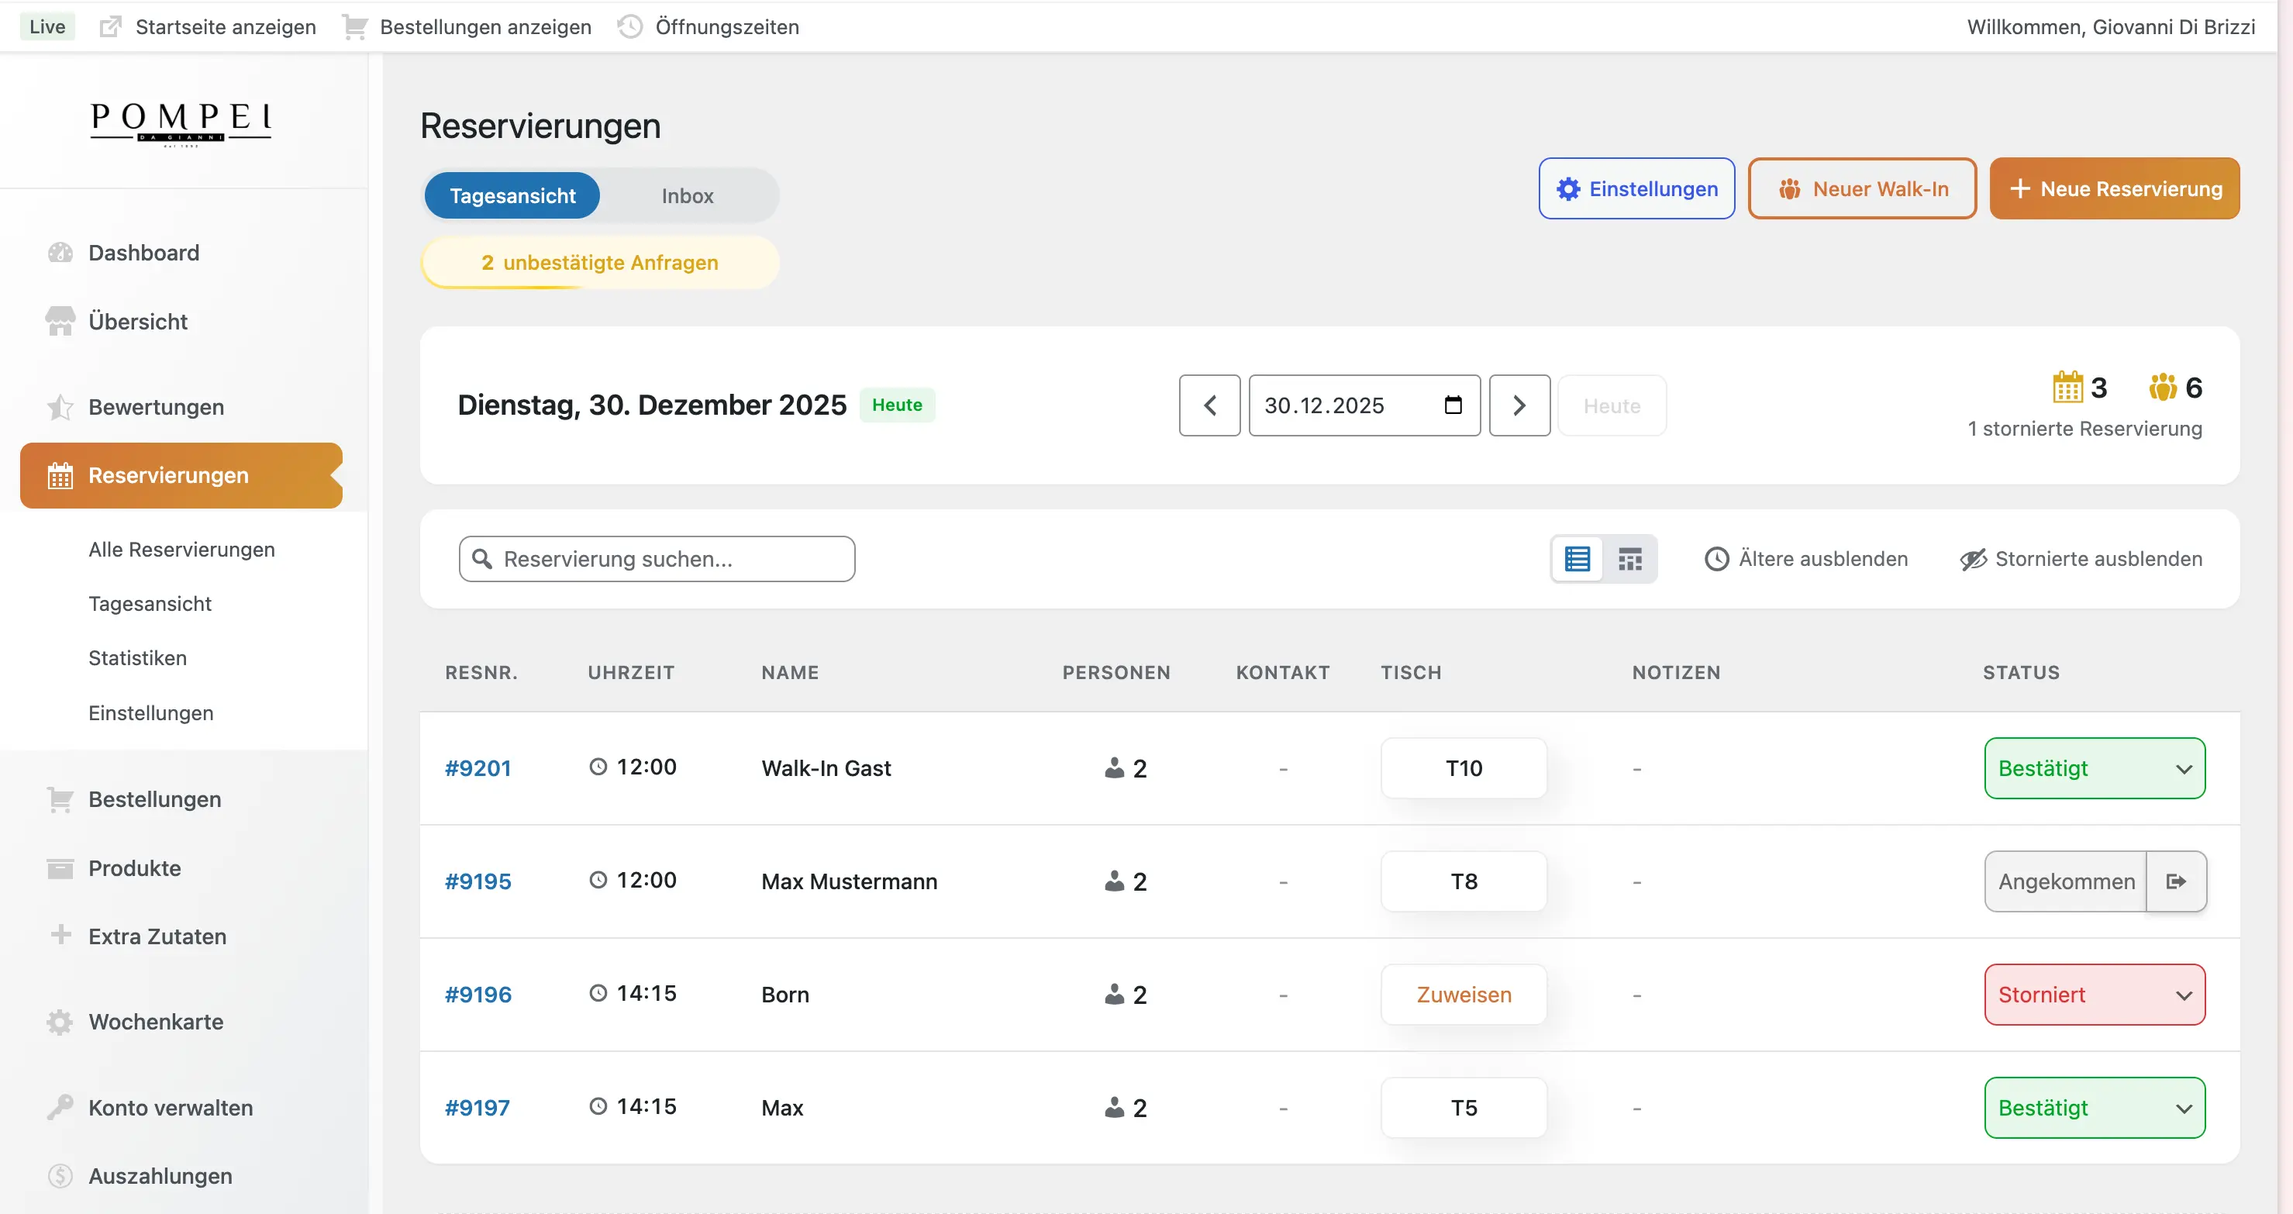
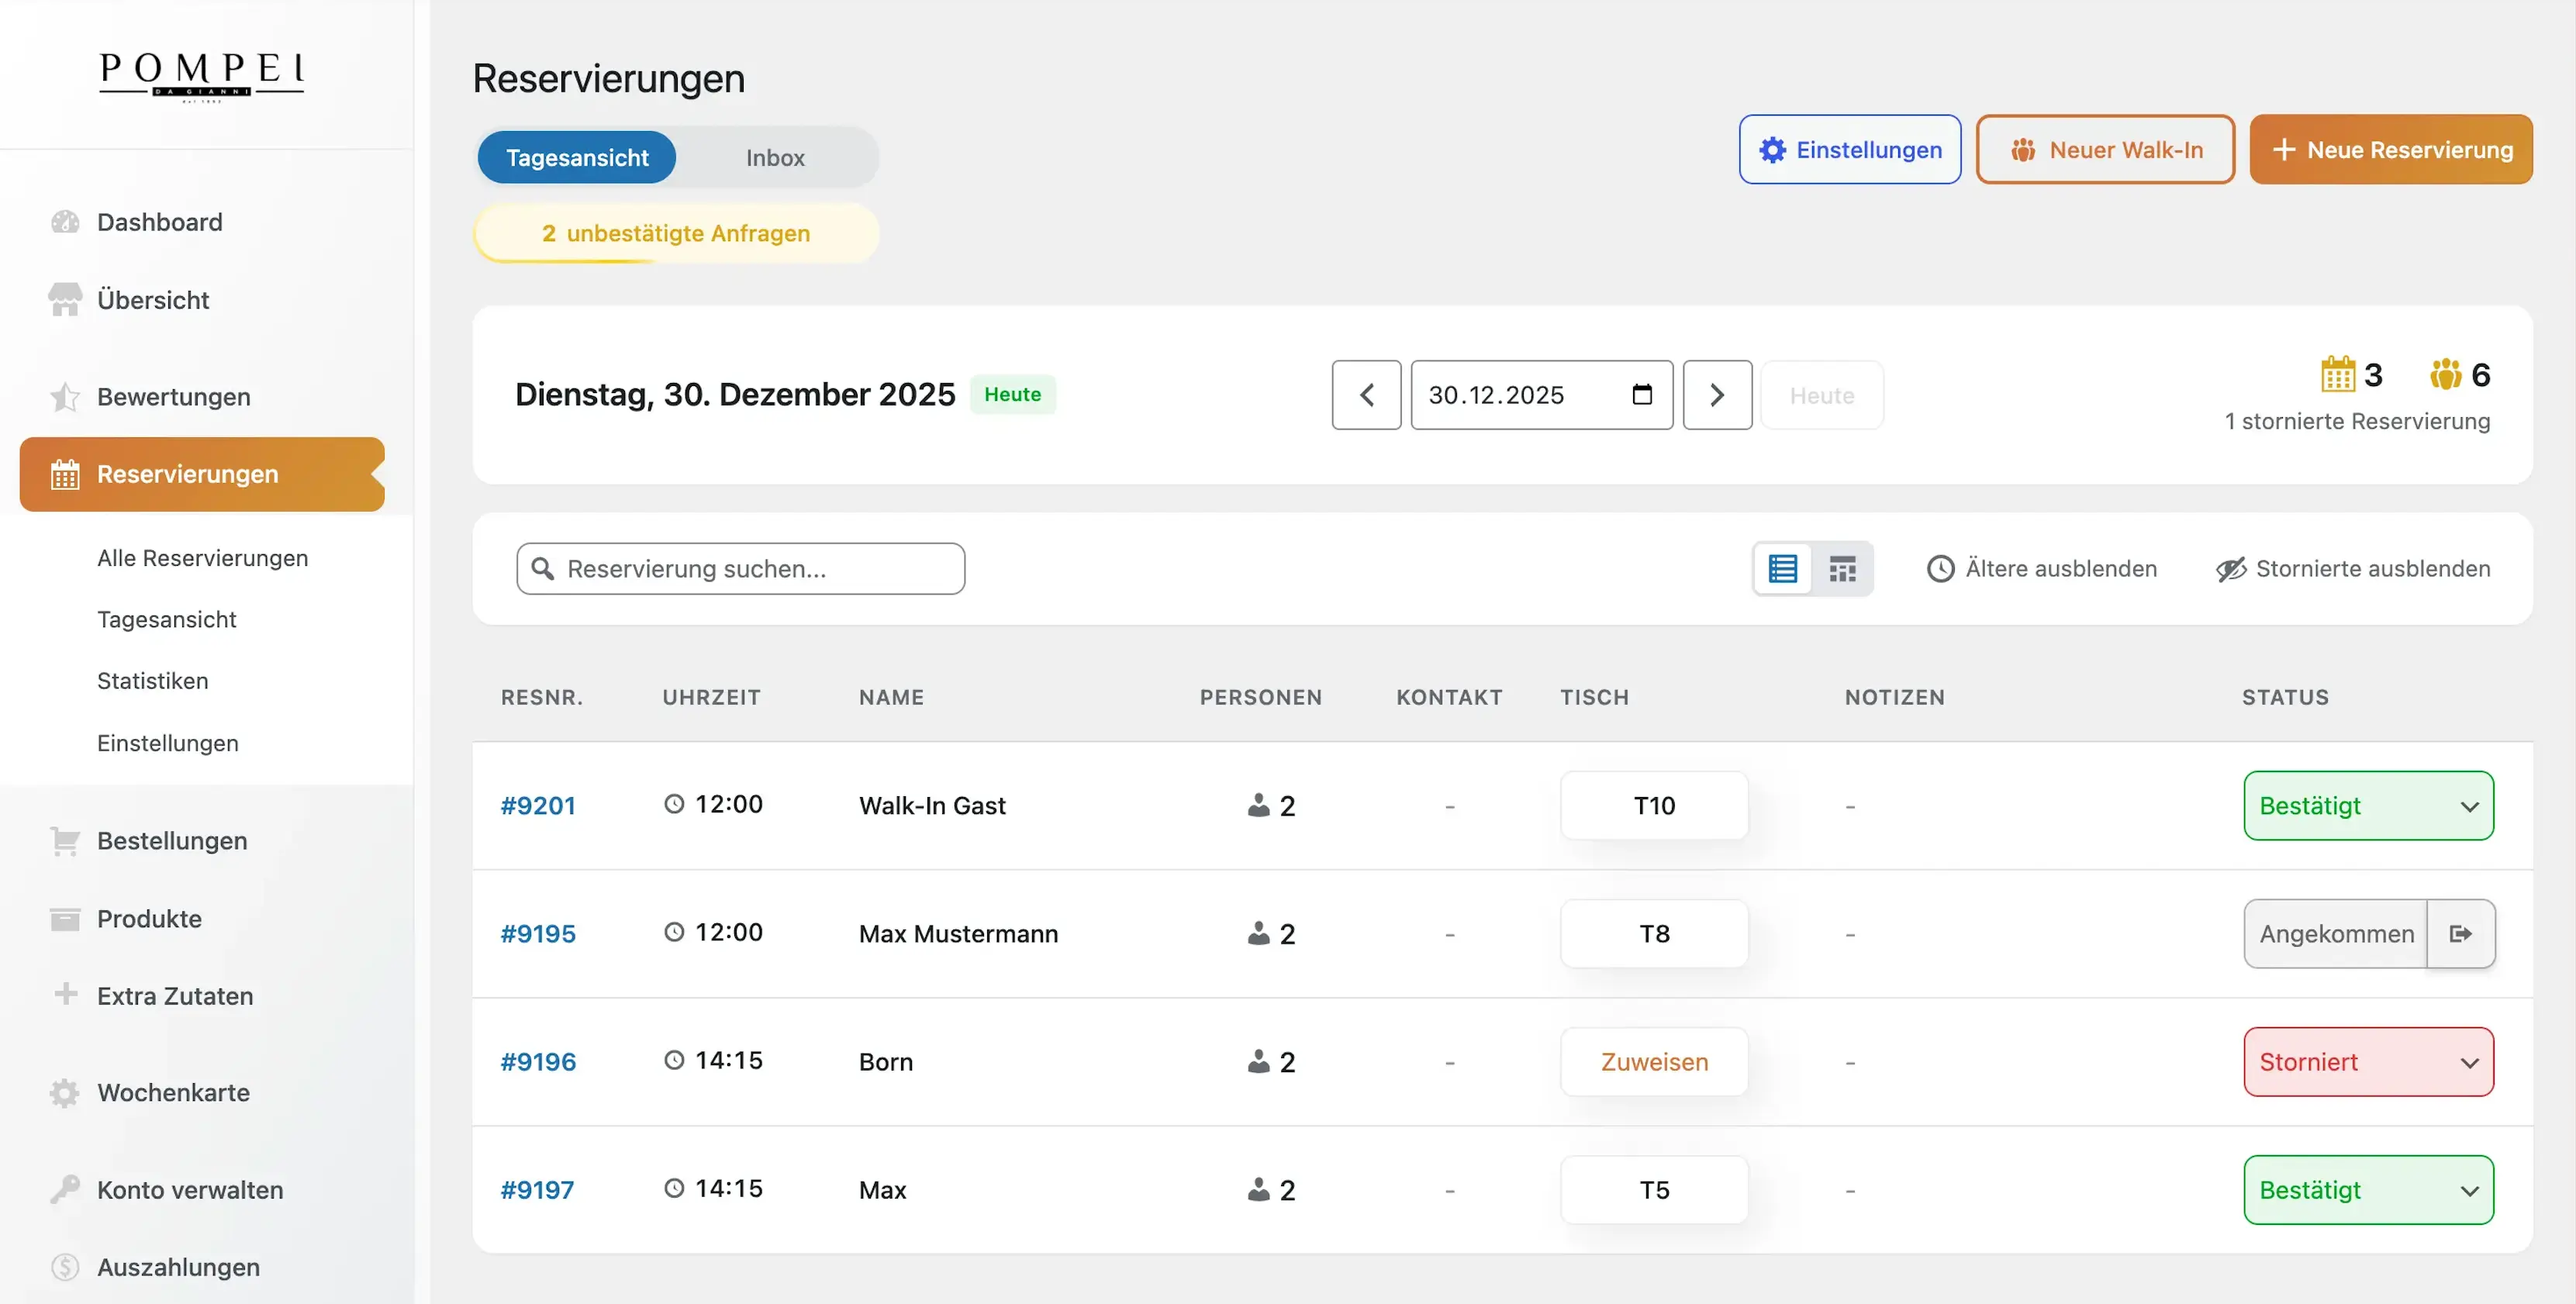
updated changelog

diff --git a/src/content/changelogs/2025-12-28-reservierungstool-2.0.md b/src/content/changelogs/2025-12-28-reservierungstool-2.0.md
@@ -1,14 +1,18 @@
 ---
 title: Bringmal Tischreservierungen 2.0
 version: "2.0"
-date: 2025-12-30T20:25:00.000+07:00
+date: 2026-01-05T20:25:00.000+07:00
 type: feature
 category: Table Reservations
 ---
 
 ![Vorschau Tischreservierung 1](/images/uploads/major-release-2-0-tables/table-screen-1.webp)
 
-Mit Version 2.0 erhält das Modul ein umfassendes Upgrade. Der Fokus liegt auf deutlich besserer User Experience, moderner Oberfläche, spürbarer Performance und vielen neuen Erweiterungsfunktionen. Viele ältere Bereiche wurden vollständig erneuert, damit die tägliche Arbeit im Restaurant schneller, übersichtlicher und zuverlässiger wird.
+Mit <strong>Version 2.0</strong> erhält das Tischreservierungs-Modul ein umfassendes Upgrade. Der Fokus liegt auf deutlich besserer User Experience, moderner Oberfläche, spürbarer Performance und vielen neuen Erweiterungsfunktionen. Viele ältere Bereiche wurden vollständig erneuert, damit die tägliche Arbeit im Restaurant schneller, übersichtlicher und zuverlässiger wird.
+
+Die neue Version wird ab dem <strong>05.01.2026</strong> offiziell für die ersten Bringmal Kund:innen veröffentlicht, Welle 2 folgt ab dem <strong>16.01.2026</strong>.
+
+Reseller Partner und Whitelabel Kunden erhalten die neue Version spätestens ab dem <strong>20.01.2026</strong>.
 
 ---
 
@@ -36,11 +40,13 @@ Das neue Walk In und Check In Interface kann bereits vollständig als Ersatz fü
 
 **Was sich verbessert**
 
+* Intelligenter Tischassistent: Finde jederzeit den idealen Tisch und entdecke passende Alternativen
 * Walk Ins mit nur einem Klick anlegen, ohne das bisherige Interface mit mehreren Schritten zu öffnen
 * Reduziert auf die wichtigsten Felder für schnelles Arbeiten im laufenden Betrieb
 * Gleichzeitig geeignet für geplante, detaillierte Reservierungen
 
 ![Vorschau Tischreservierung 2](/images/uploads/major-release-2-0-tables/walkin.webp)
+![Vorschau Tischreservierung 2](/images/uploads/major-release-2-0-tables/assistent.webp)
 
 ### Integrierte Gästedatenbank mit automatischer Erkennung
 
@@ -171,7 +177,7 @@ Blockierungen lassen sich nun deutlich genauer steuern.
 ### Überarbeitete iFrame Einbettung
 
 Das Reservierungs Widget funktioniert jetzt auf nahezu jeder Website zuverlässig.
-Einfach nur den iFame Widget Code aus "Einstellungen > Links > Embed-Code (Neu)" in die gewünschte Webseite einfügen und schon können Gäste online reservieren.
+Einfach nur den iFame Widget Code aus "Einstellungen > Links > Embed-Code (Neu)" in die gewünschte Webseite einfügen und schon können Gäste online reservieren. Nun kann das Widget z.B. in jede WordPress oder Wixx Website nahtlos mit zwei Klicks integriert werden.
 
 ![Vorschau Tischreservierung 2](/images/uploads/major-release-2-0-tables/iframe.webp)
 

diff --git a/src/content/shop/2025-12-28-changelog-release.md b/src/content/shop/2025-12-28-changelog-release.md
@@ -6,3 +6,5 @@ status: planned
 
 Seit dem 28.12.2025 ist der offizielle Changelog für unsere Bringmal.de Produkte – wie Tischreservierungen und Shop-Funktionen – live geschaltet.
 Hier werden zukünftig alle Produkt-Erneuerungen sowie Beta-Planungsreleases angekündigt.
+
+![Vorschau Tischreservierung 2](/images/uploads/changelog.webp)
